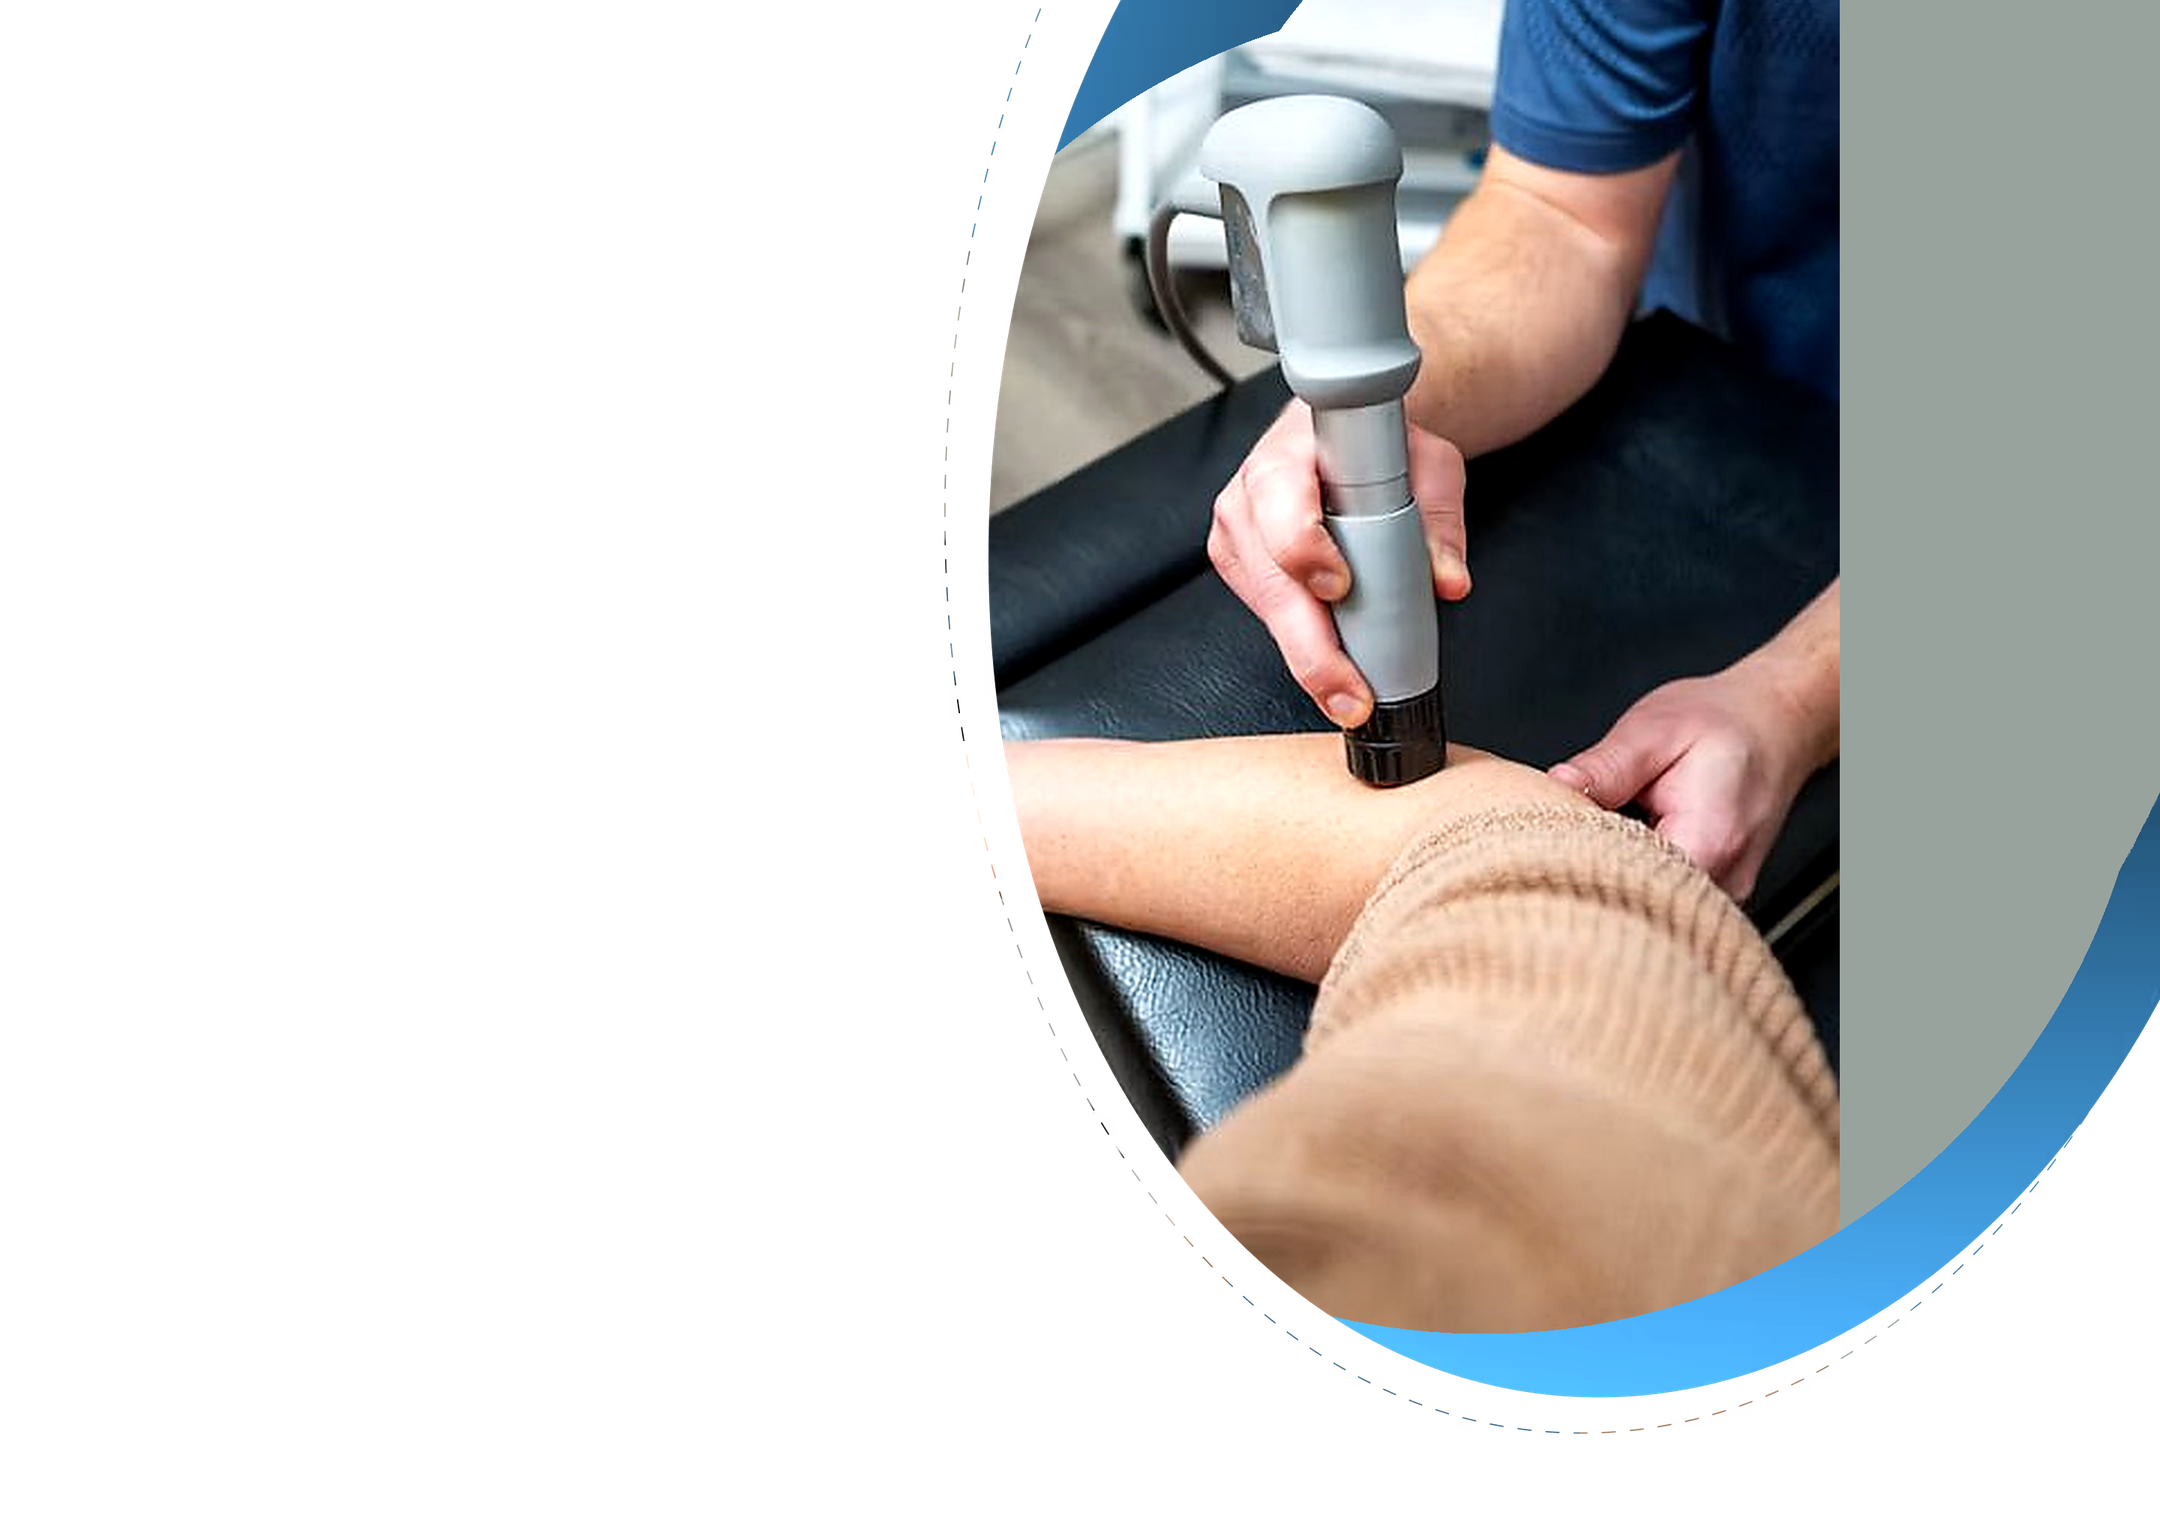
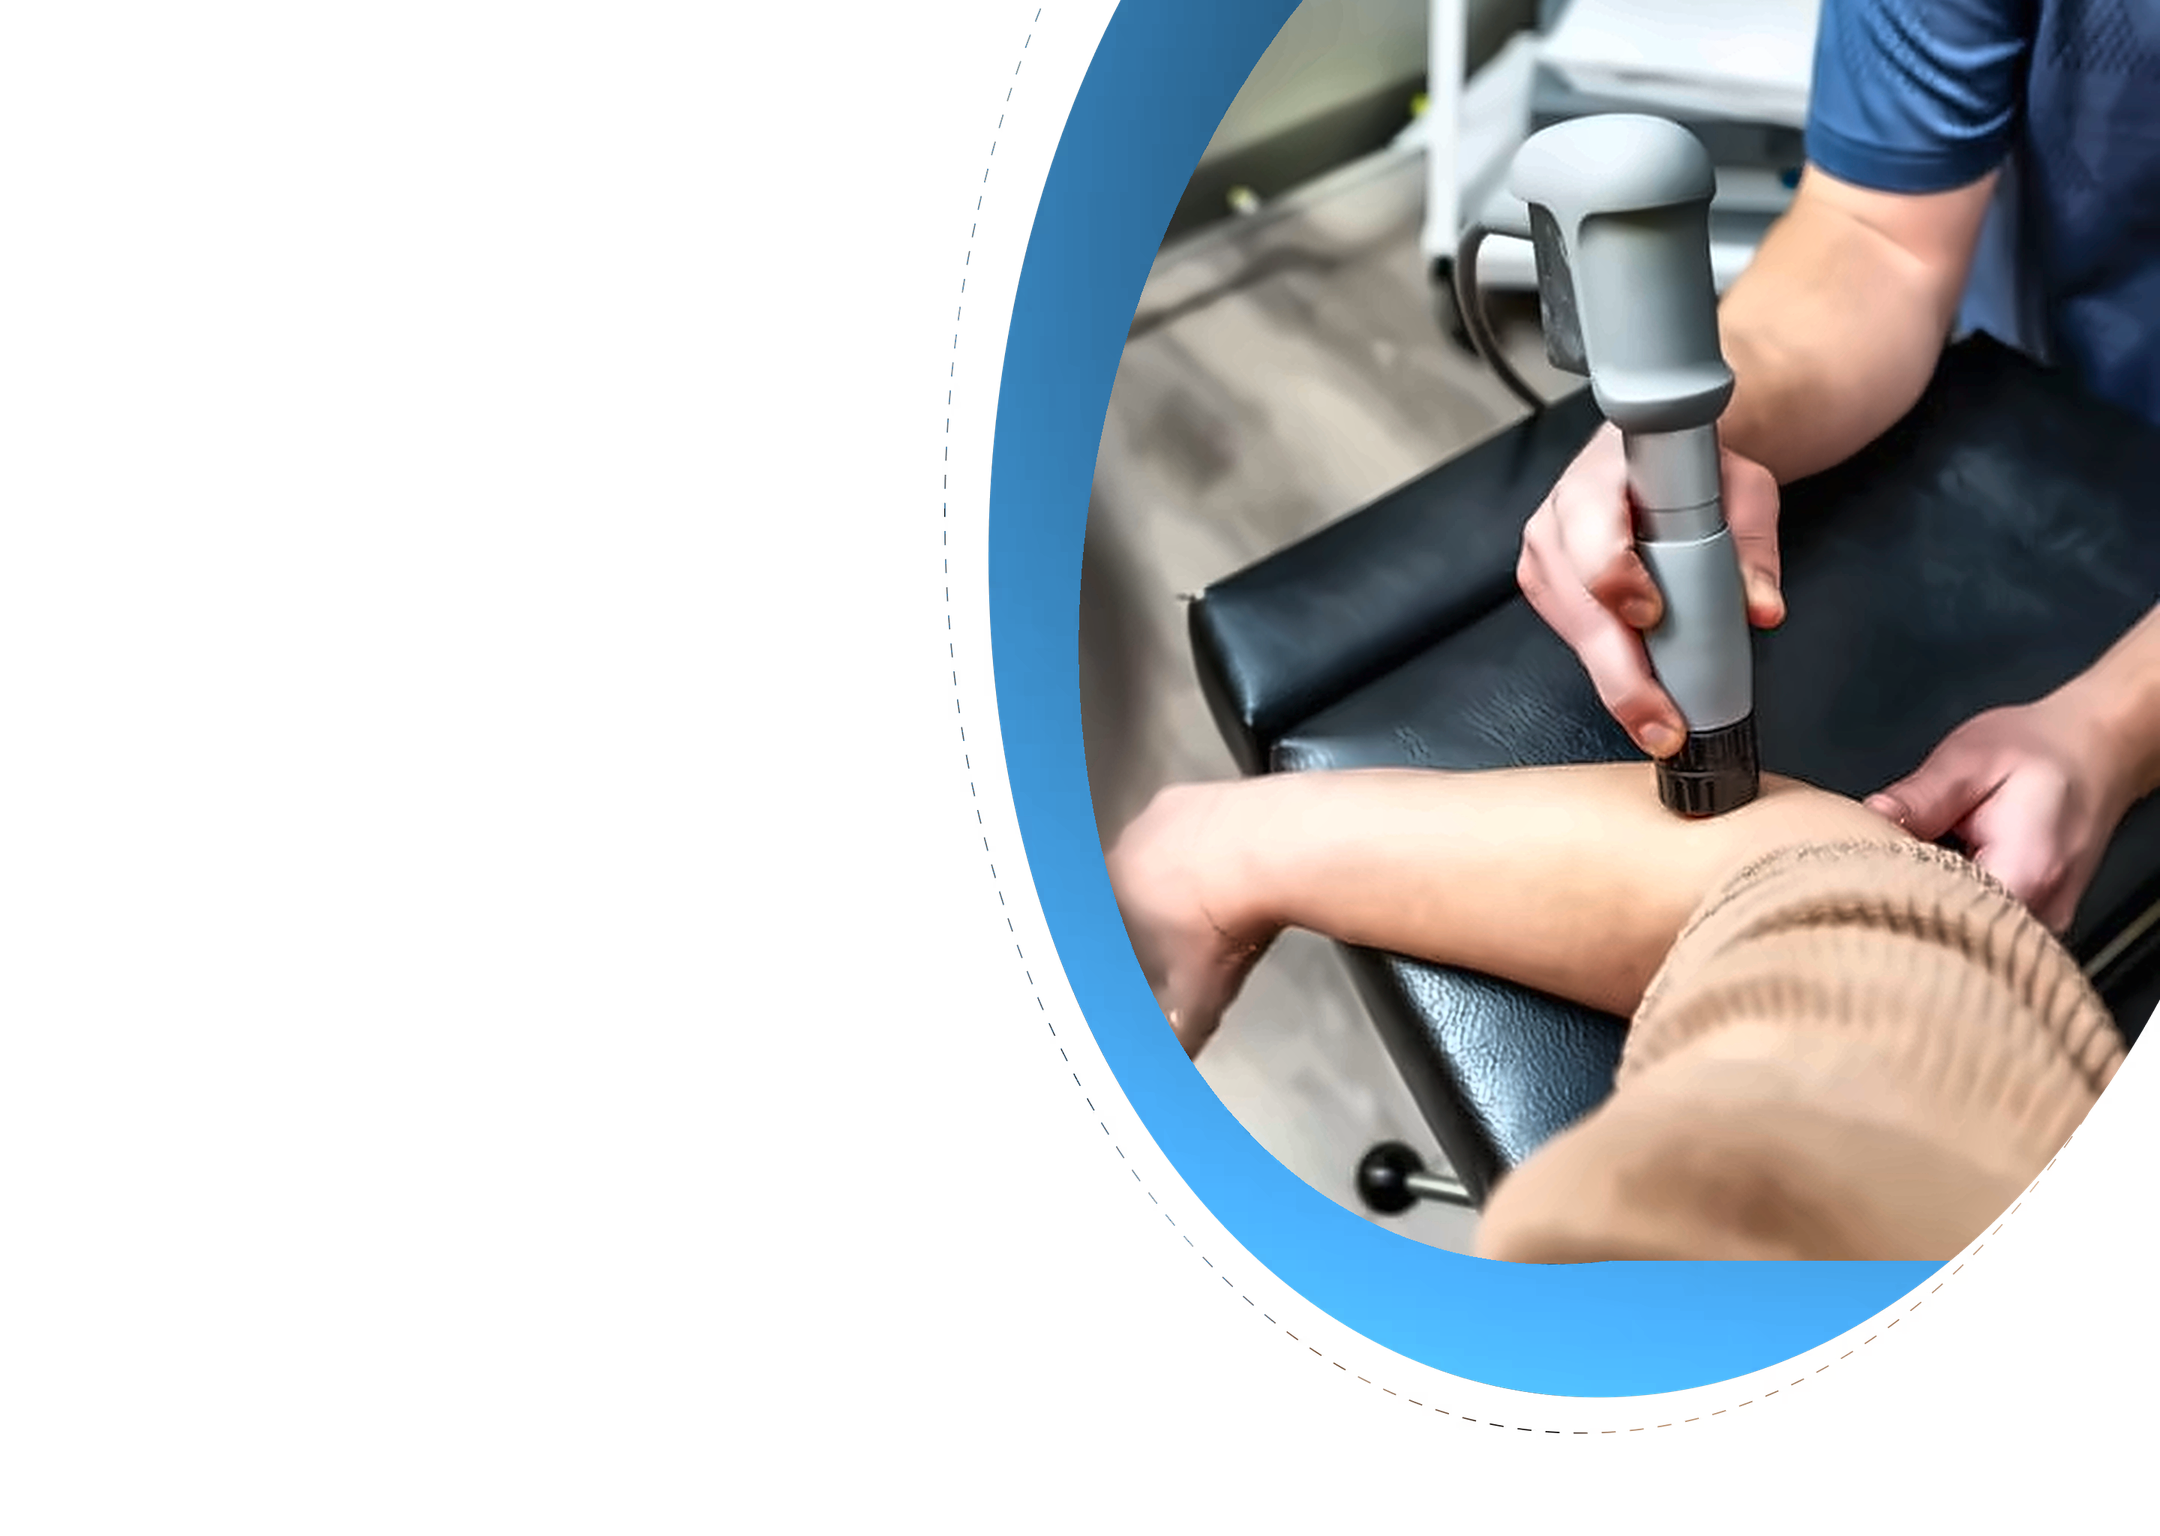
Fill 100% of hero blue crescent circle and enhance shockwave photo clarity

diff --git a/produce_final_shockwave.py b/produce_final_shockwave.py
@@ -13,17 +13,29 @@ cx, cy = 1978, 888
 dist_from_center = np.sqrt((x_coords - cx)**2 + (y_coords - cy)**2)
 
 is_red = (f39[:, :, 2] > 80) & (f39[:, :, 1] < 65) & (f39[:, :, 0] < 65) & (alpha_f39 > 80)
-true_ring_mask = is_red & (dist_from_center >= 890) & (dist_from_center <= 1030)
-dashed_mask = (alpha_f39 > 0) & (alpha_f39 < 240) & (x_coords < 1700) & (dist_from_center >= 1010)
+# Exclude German guy's red shirt strictly (on the right side x > 2100, y in 800..1680)
+is_red[(x_coords > 2100) & (y_coords >= 800) & (y_coords <= 1680)] = False
+
+num_labels, labels, stats, centroids = cv2.connectedComponentsWithStats(is_red.astype(np.uint8), connectivity=8)
+ring_label = None
+max_area = 0
+for lbl in range(1, num_labels):
+    area = stats[lbl, cv2.CC_STAT_AREA]
+    left = stats[lbl, cv2.CC_STAT_LEFT]
+    if area > max_area and left < 1600:
+        max_area = area
+        ring_label = lbl
+
+true_ring_mask = (labels == ring_label)
+dashed_mask = (alpha_f39 > 0) & (alpha_f39 < 240) & ~true_ring_mask & (x_coords < 1700)
 
 red_channel = f39[:, :, 2].astype(float)
 norm_lum = red_channel / 125.0
 
 blue_overlay = np.zeros((h, w, 4), dtype=np.uint8)
-
-blue_overlay[true_ring_mask, 0] = np.clip(181.0 * norm_lum[true_ring_mask], 0, 255).astype(np.uint8) # B
-blue_overlay[true_ring_mask, 1] = np.clip(127.0 * norm_lum[true_ring_mask], 0, 255).astype(np.uint8) # G
-blue_overlay[true_ring_mask, 2] = np.clip(54.0 * norm_lum[true_ring_mask], 0, 255).astype(np.uint8)  # R
+blue_overlay[true_ring_mask, 0] = np.clip(181.0 * norm_lum[true_ring_mask], 0, 255).astype(np.uint8)
+blue_overlay[true_ring_mask, 1] = np.clip(127.0 * norm_lum[true_ring_mask], 0, 255).astype(np.uint8)
+blue_overlay[true_ring_mask, 2] = np.clip(54.0 * norm_lum[true_ring_mask], 0, 255).astype(np.uint8)
 blue_overlay[true_ring_mask, 3] = f39[true_ring_mask, 3]
 
 blue_overlay[dashed_mask, 0] = 181
@@ -31,48 +43,52 @@ blue_overlay[dashed_mask, 1] = 127
 blue_overlay[dashed_mask, 2] = 54
 blue_overlay[dashed_mask, 3] = f39[dashed_mask, 3]
 
-# 2. Process uploaded shockwave therapy image for crystal clarity
-pil_up = Image.open(uploaded_path)
+# 2. Upscale and sharpen photo to fill 100% of the circle (x: 1280..2880, y: 0..2048)
+# Circle inner boundary starts around x = 1380 at mid, 1450..1650 top/bottom.
+# To cover x = 1280..2880 completely, tw must be >= 1600!
+# Let's use tw = 1620 (scale = 1620 / 531 = 3.0508), th = int(1024 * 3.0508) = 3124
+tw = 1620
+th = int(1024 * (tw / 531.0)) # 3124
 
-enhancer = ImageEnhance.Sharpness(pil_up)
-pil_enhanced = enhancer.enhance(1.45)
-enhancer_con = ImageEnhance.Contrast(pil_enhanced)
-pil_enhanced = enhancer_con.enhance(1.06)
+# Stepwise upscale + detail enhancement for crispness
+img_bgr = cv2.imread(uploaded_path)
 
-scale = 3.0
-tw = int(531 * scale) # 1593
-th = int(1024 * scale) # 3072
+# Gentle denoise of JPEG compression artifacts first
+img_clean = cv2.fastNlMeansDenoisingColored(img_bgr, None, 3, 3, 7, 21)
 
-scaled = pil_enhanced.resize((tw, th), Image.LANCZOS)
-scaled = scaled.filter(ImageFilter.UnsharpMask(radius=1.5, percent=140, threshold=2))
-scaled_bgr = cv2.cvtColor(np.array(scaled), cv2.COLOR_RGB2BGR)
+# 2x upscale first with Lanczos
+up_mid = cv2.resize(img_clean, (531 * 2, 1024 * 2), interpolation=cv2.INTER_LANCZOS4)
+# Detail enhance on mid-res
+gaussian_mid = cv2.GaussianBlur(up_mid, (0, 0), 1.2)
+up_mid_sharp = cv2.addWeighted(up_mid, 1.45, gaussian_mid, -0.45, 0)
 
-# Position:
-# We want the probe and hands centered right at the crescent opening
-# The probe is at x ~ 0.58 * tw in scaled_bgr (~920 px)
-# We want it at x ~ 1800 in canvas -> x_offset = 1800 - 920 = 880 px!
-x_offset = 860
-# Vertical: probe at y ~ 0.56 * th (~1720 px)
-# Place at y ~ 980 in canvas -> y_offset = 980 - 1720 = -740 px!
-y_offset = -740
+# Final resize to (tw, th)
+scaled_bgr = cv2.resize(up_mid_sharp, (tw, th), interpolation=cv2.INTER_LANCZOS4)
+
+# Subtle local contrast (CLAHE on L channel) + crisp unsharp mask
+lab = cv2.cvtColor(scaled_bgr, cv2.COLOR_BGR2LAB)
+l, a, b = cv2.split(lab)
+clahe = cv2.createCLAHE(clipLimit=1.3, tileGridSize=(8, 8))
+l = clahe.apply(l)
+scaled_bgr = cv2.cvtColor(cv2.merge((l, a, b)), cv2.COLOR_LAB2BGR)
+
+gaussian_final = cv2.GaussianBlur(scaled_bgr, (0, 0), 1.0)
+scaled_bgr = cv2.addWeighted(scaled_bgr, 1.35, gaussian_final, -0.35, 0)
+
+# Align right edge flush to w (2880) so there is ZERO grey bar on the right!
+x_offset = w - tw # 2880 - 1620 = 1260 (covers 1260..2880, which is 100% of circle!)
+# Vertical alignment:
+# Probe touches arm around y = 0.56 * th = 1750.
+# We want probe around y = 1020 in canvas -> y_offset = 1020 - 1750 = -730
+y_offset = -730
 
 canvas = np.zeros((h, w, 3), dtype=np.uint8)
-wall_color = scaled_bgr[:30, :30].mean(axis=(0, 1)).astype(np.uint8)
-canvas[:, :] = wall_color
-
-x1_src = max(0, -x_offset)
+# Copy scaled_bgr into canvas
 y1_src = max(0, -y_offset)
-x1_dst = max(0, x_offset)
-y1_dst = max(0, y_offset)
+y2_src = y1_src + h
+canvas[:, x_offset:w] = scaled_bgr[y1_src:y2_src, :]
 
-x2_src = min(tw, w - x_offset)
-y2_src = min(th, h - y_offset)
-x2_dst = min(w, x_offset + tw)
-y2_dst = min(h, y_offset + th)
-
-canvas[y1_dst:y2_dst, x1_dst:x2_dst] = scaled_bgr[y1_src:y2_src, x1_src:x2_src]
-
-# 3. Composite with f39 alpha & blue overlay
+# Composite with f39 alpha & blue overlay
 full_comp = np.zeros((h, w, 4), dtype=np.uint8)
 full_comp[:, :, :3] = canvas
 full_comp[:, :, 3] = alpha_f39
@@ -86,33 +102,17 @@ for c in range(3):
     ).astype(np.uint8)
 full_comp[:, :, 3] = np.maximum(full_comp[:, :, 3], blue_overlay[:, :, 3])
 
-# Save master PNG
 cv2.imwrite('public/images/hero-crescent-final.png', full_comp)
 
-# Web versions
 pil_canvas = Image.fromarray(cv2.cvtColor(full_comp, cv2.COLOR_BGRA2RGBA))
-
-# hero-crescent-bleed.png
 bleed_im = pil_canvas.resize((2160, 1536), Image.LANCZOS)
 bleed_im.save('public/images/hero-crescent-bleed.png', optimize=True)
 
-# hero-crescent-web.png (tight crop for mobile)
 coords = np.argwhere(full_comp[:, :, 3] > 0)
 y_min, x_min = coords.min(axis=0)
 y_max, x_max = coords.max(axis=0)
-crop_x1 = max(0, x_min - 20)
-crop_x2 = min(w, x_max + 1)
-crop_y1 = max(0, y_min - 10)
-crop_y2 = min(h, y_max + 1)
-cropped = pil_canvas.crop((crop_x1, crop_y1, crop_x2, crop_y2))
+cropped = pil_canvas.crop((max(0, x_min - 20), max(0, y_min - 10), min(w, x_max + 1), min(h, y_max + 1)))
 cropped_web = cropped.resize((1400, int(cropped.height * (1400.0 / cropped.width))), Image.LANCZOS)
 cropped_web.save('public/images/hero-crescent-web.png', optimize=True)
 
-# Preview
-bg = np.full((h, w, 3), (248, 248, 250), dtype=np.uint8)
-comp_a = full_comp[:, :, 3].astype(float) / 255.0
-for c in range(3):
-    bg[:, :, c] = np.clip(full_comp[:, :, c].astype(float) * comp_a + bg[:, :, c].astype(float) * (1.0 - comp_a), 0, 255).astype(np.uint8)
-
-cv2.imwrite(r'C:\Users\dhruv\.gemini\antigravity\brain\d929d5e8-1ca6-4dcf-802e-1bdcbb6c73a2\hero_shockwave_final.jpg', cv2.resize(bg, (960, 683)))
-print('Saved hero_shockwave_final.jpg and master images.')
+print('Generated full-circle sharp hero images.')
